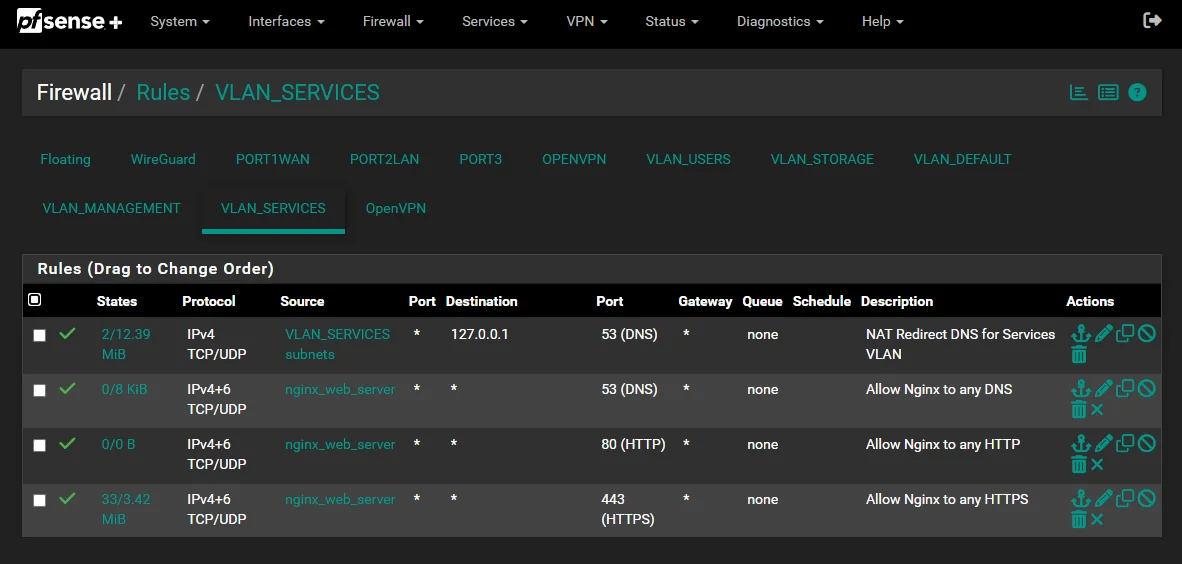
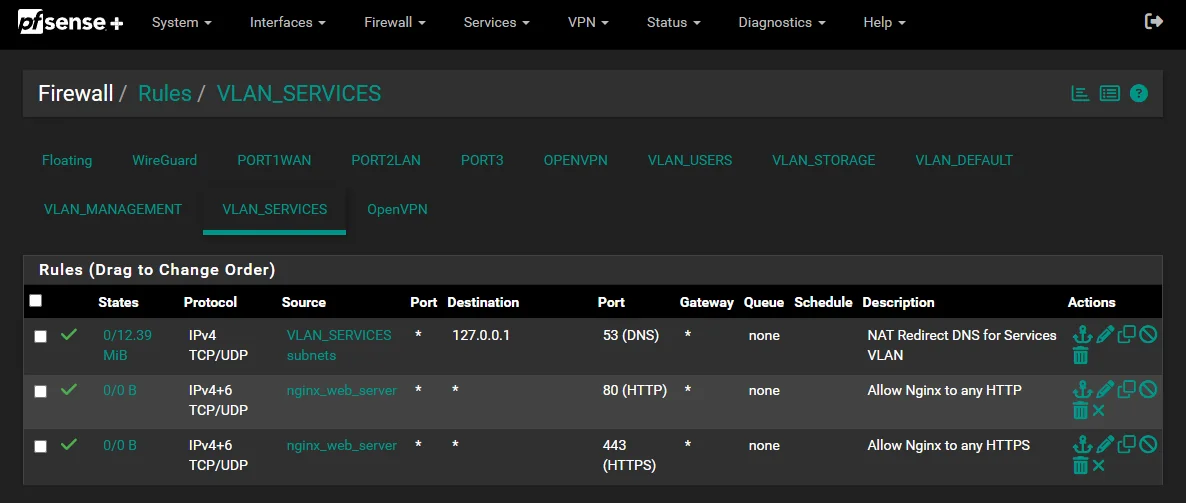
BLOG - 214 - image and post fix

diff --git a/app/pages/pfsense/page.tsx b/app/pages/pfsense/page.tsx
@@ -985,7 +985,7 @@ function PfSense() {
               simply create aliases which reference those IP addresses and FQDNs
               and later use them as we configure policy in pfSense. For
               instance, what if you need to change an IP address assigned to a
-              resource that you have 10+ policies written for within pfSesnse.
+              resource that you have 10+ policies written for within pfSense.
               With aliases, this task would require only one corresponding
               update to the firewall-the alias. Without aliases, you'd have to
               locate and change that IP address in your policies across pfSense.
@@ -1400,7 +1400,7 @@ function PfSense() {
               server to send a response back, that is, to serve up our website.
               These three rules will allow our Nginx web server access out to
               the internet via the Port1WAN interface so long as the destination
-              port is port 53 (DNS), port 80 (HTTP), or port 443 (HTTPS).
+              port is port 80 (HTTP) or port 443 (HTTPS).
             </p>
             <ToggleImage params={images["20"]}></ToggleImage>
           </div>
